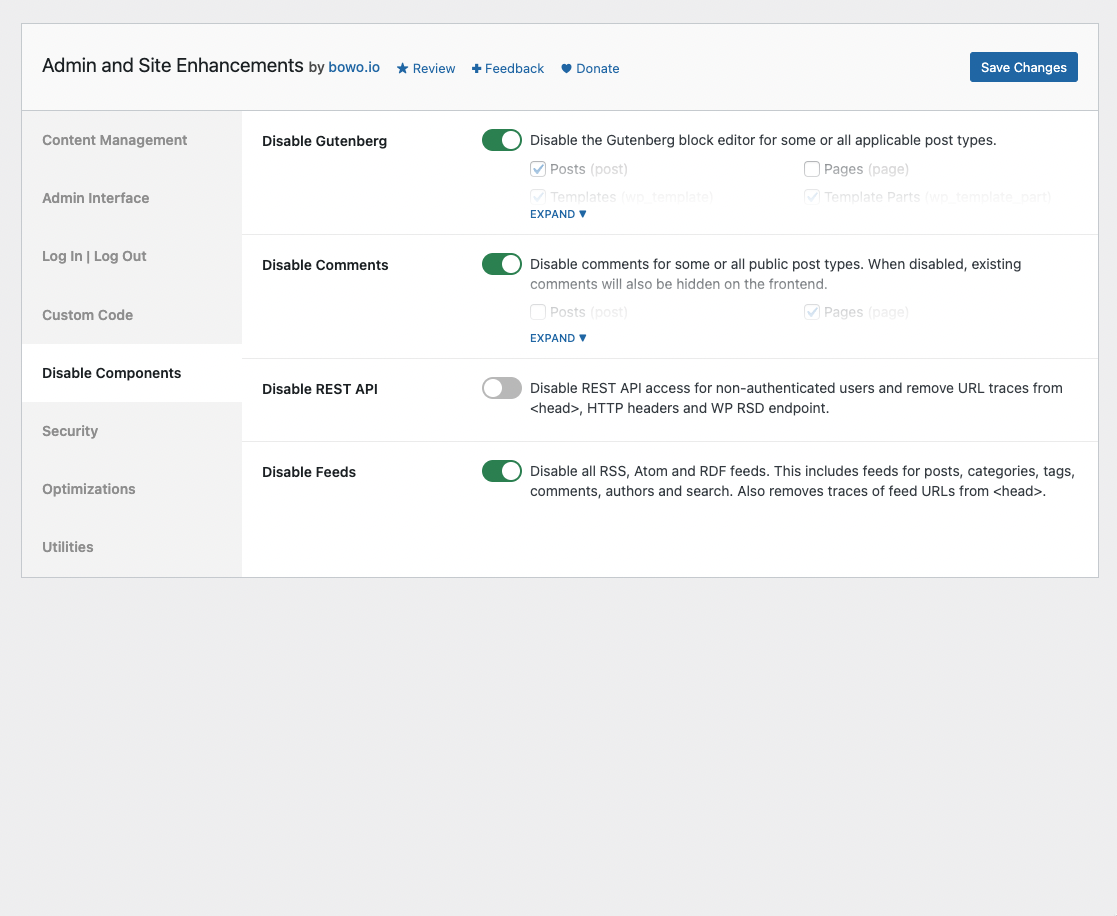
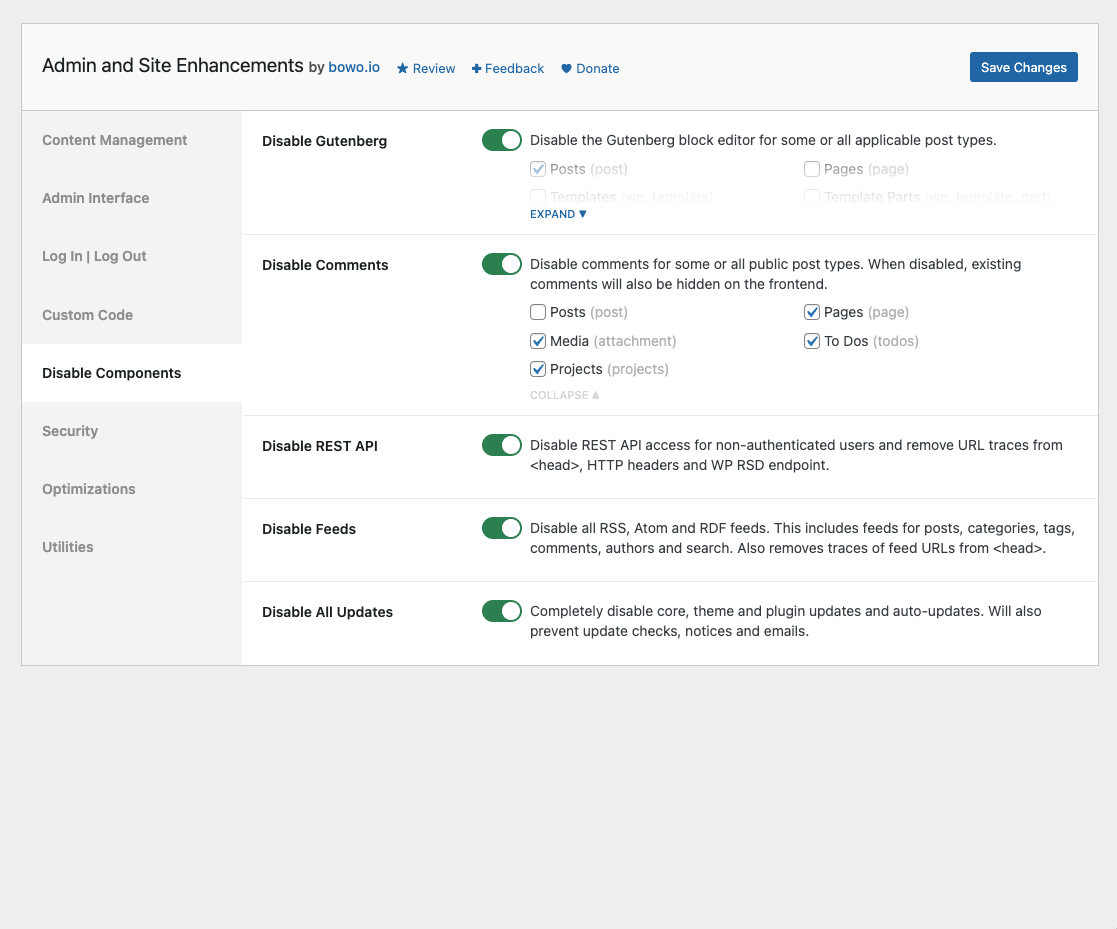
v4.0.0 release

diff --git a/admin-site-enhancements.php b/admin-site-enhancements.php
@@ -4,7 +4,7 @@
  * Plugin Name:       Admin and Site Enhancements
  * Plugin URI:        https://wordpress.org/plugins/admin-site-enhancements/
  * Description:       Easily enable enhancements and features that usually require multiple plugins.
- * Version:           3.9.2
+ * Version:           4.0.0
  * Author:            Bowo
  * Author URI:        https://bowo.io
  * License:           GPL-2.0+
@@ -18,7 +18,7 @@ if ( ! defined( 'ABSPATH' ) ) {
 	exit;
 }
 
-define( 'ASENHA_VERSION', '3.9.2' );
+define( 'ASENHA_VERSION', '4.0.0' );
 define( 'ASENHA_ID', 'asenha' );
 define( 'ASENHA_SLUG', 'admin-site-enhancements' );
 define( 'ASENHA_SLUG_U', 'admin_site_enhancements' );

diff --git a/README.md b/README.md
@@ -5,7 +5,7 @@ Donate link: https://paypal.me/qriouslad
 Tags: enhancements, tweaks, optimizations, tools  
 Requires at least: 4.6  
 Tested up to: 6.1.1  
-Stable tag: 3.9.2  
+Stable tag: 4.0.0  
 Requires PHP: 5.6  
 License: GPLv2 or later  
 License URI: http://www.gnu.org/licenses/gpl-2.0.html
@@ -69,6 +69,7 @@ Admin and Site Enhancements helps you to easily enhance various admin workflows 
 * **Disable Comments**. Disable comments for some or all public post types. When disabled, existing comments will also be hidden on the frontend.
 * **Disable REST API**. Disable REST API access for non-authenticated users and remove URL traces from &lt;head&gt;, HTTP headers and WP RSD endpoint.
 * **Disable Feeds**. Disable all RSS, Atom and RDF feeds. This includes feeds for posts, categories, tags, comments, authors and search. Also removes traces of feed URLs from &lt;head&gt;.
+* **Disable All Updates**. Completely disable core, theme and plugin updates and auto-updates in WordPress. Will also prevent update checks, notices and emails..
 
 ### Security
 
@@ -127,6 +128,11 @@ Admin and Site Enhancements will include more enhancements, tweaks and useful fe
 Hoping that this is useful in reducing the number of plugins we install the first time we set up a site.
 
 ## Changelog
+
+### 4.0.0 (2023.01.04)
+
+* **[ADDED] Disable Components >> Disable All Updates**. Completely disable core, theme and plugin updates and auto-updates in WordPress. Will also prevent update checks, notices and emails..
+
 
 ### 3.9.2 (2023.01.03)
 
